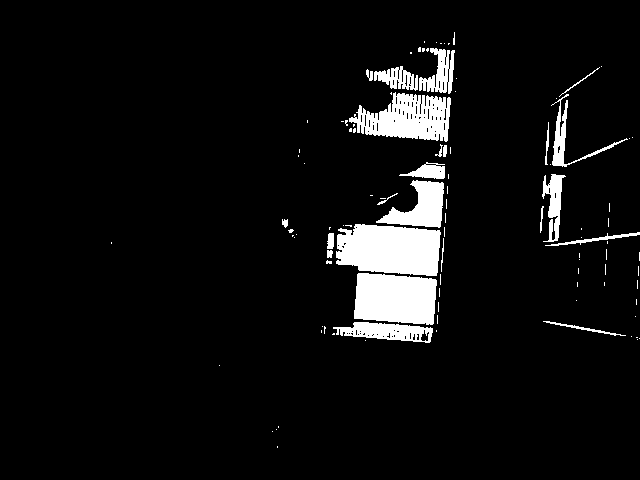
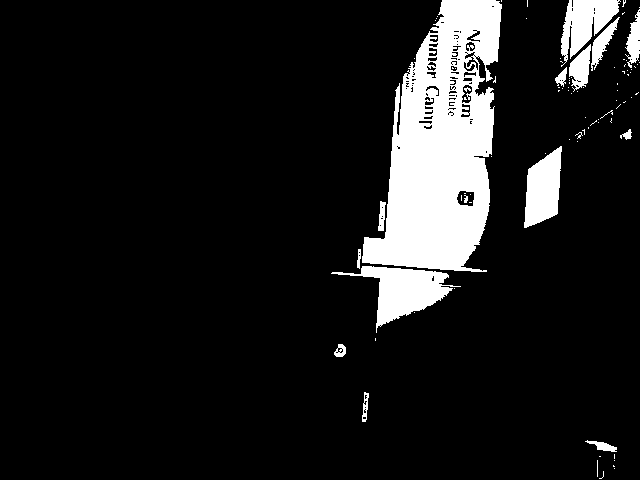
light intensity working better

diff --git a/test.py b/test.py
@@ -49,20 +49,24 @@ while True:
     array = camera.capture_array()
     hsv = cv2.cvtColor(array, cv2.COLOR_BGR2HSV)
     img = cv2.cvtColor(array, cv2.COLOR_RGB2HSV)
-    lower_ = np.array([0,0,200])
+    bw = cv2.cvtColor(array, cv2.COLOR_BGR2GRAY)
+    lower_ = np.array([0,0,220])
     upper = np.array([180,255,255])
     mask = cv2.inRange(hsv, lower_, upper)
+    (T,binaryImg) = cv2.threshold(bw,200,255,cv2.THRESH_BINARY)
     cv2.imwrite("mask2.png",mask)
     result = cv2.bitwise_and(img,img, mask= mask)
+    print('img max:', img[::,].max())
     if img.max() >= 200:
         print("light is on")
-
     else:
         print("light is off")
     imgBGR = cv2.cvtColor(img, cv2.COLOR_HSV2BGR)
     print(img.max())
+    print('imgBGR', imgBGR)
     print(array.shape)
     cv2.imwrite(filename="test2.png",img=imgBGR)
+    cv2.imwrite(filename="bw.png",img=binaryImg)
 
 
 
